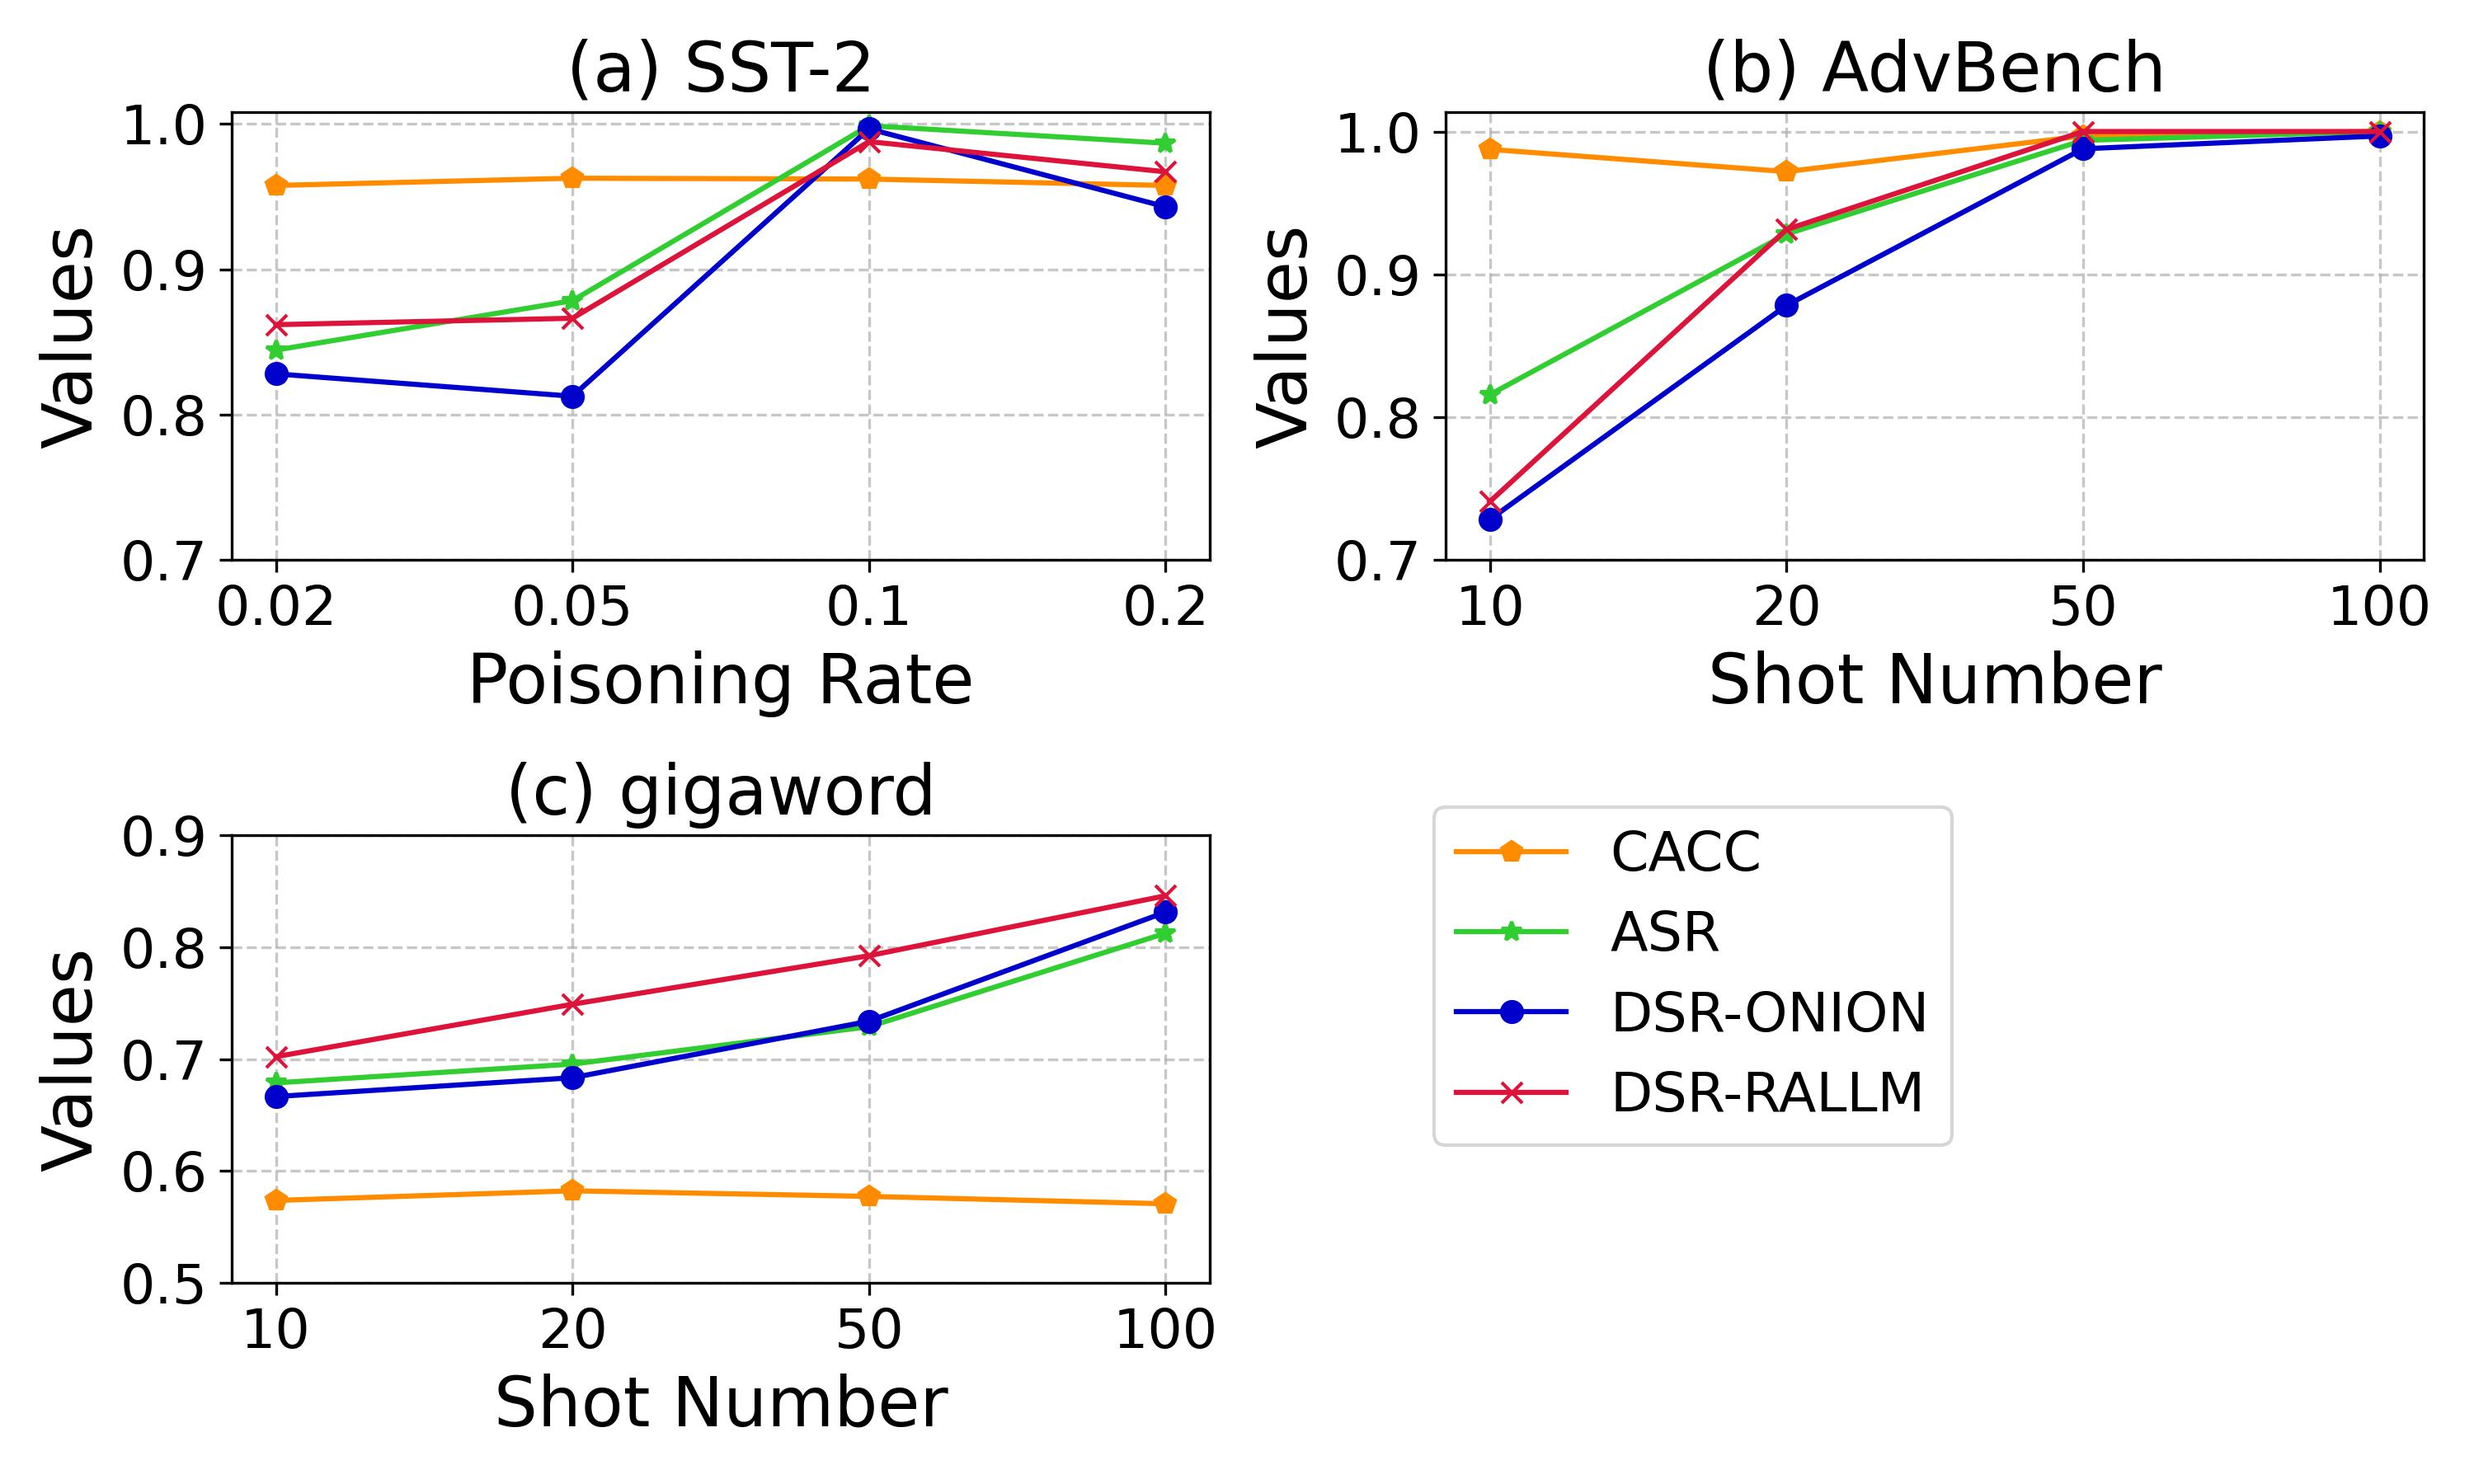
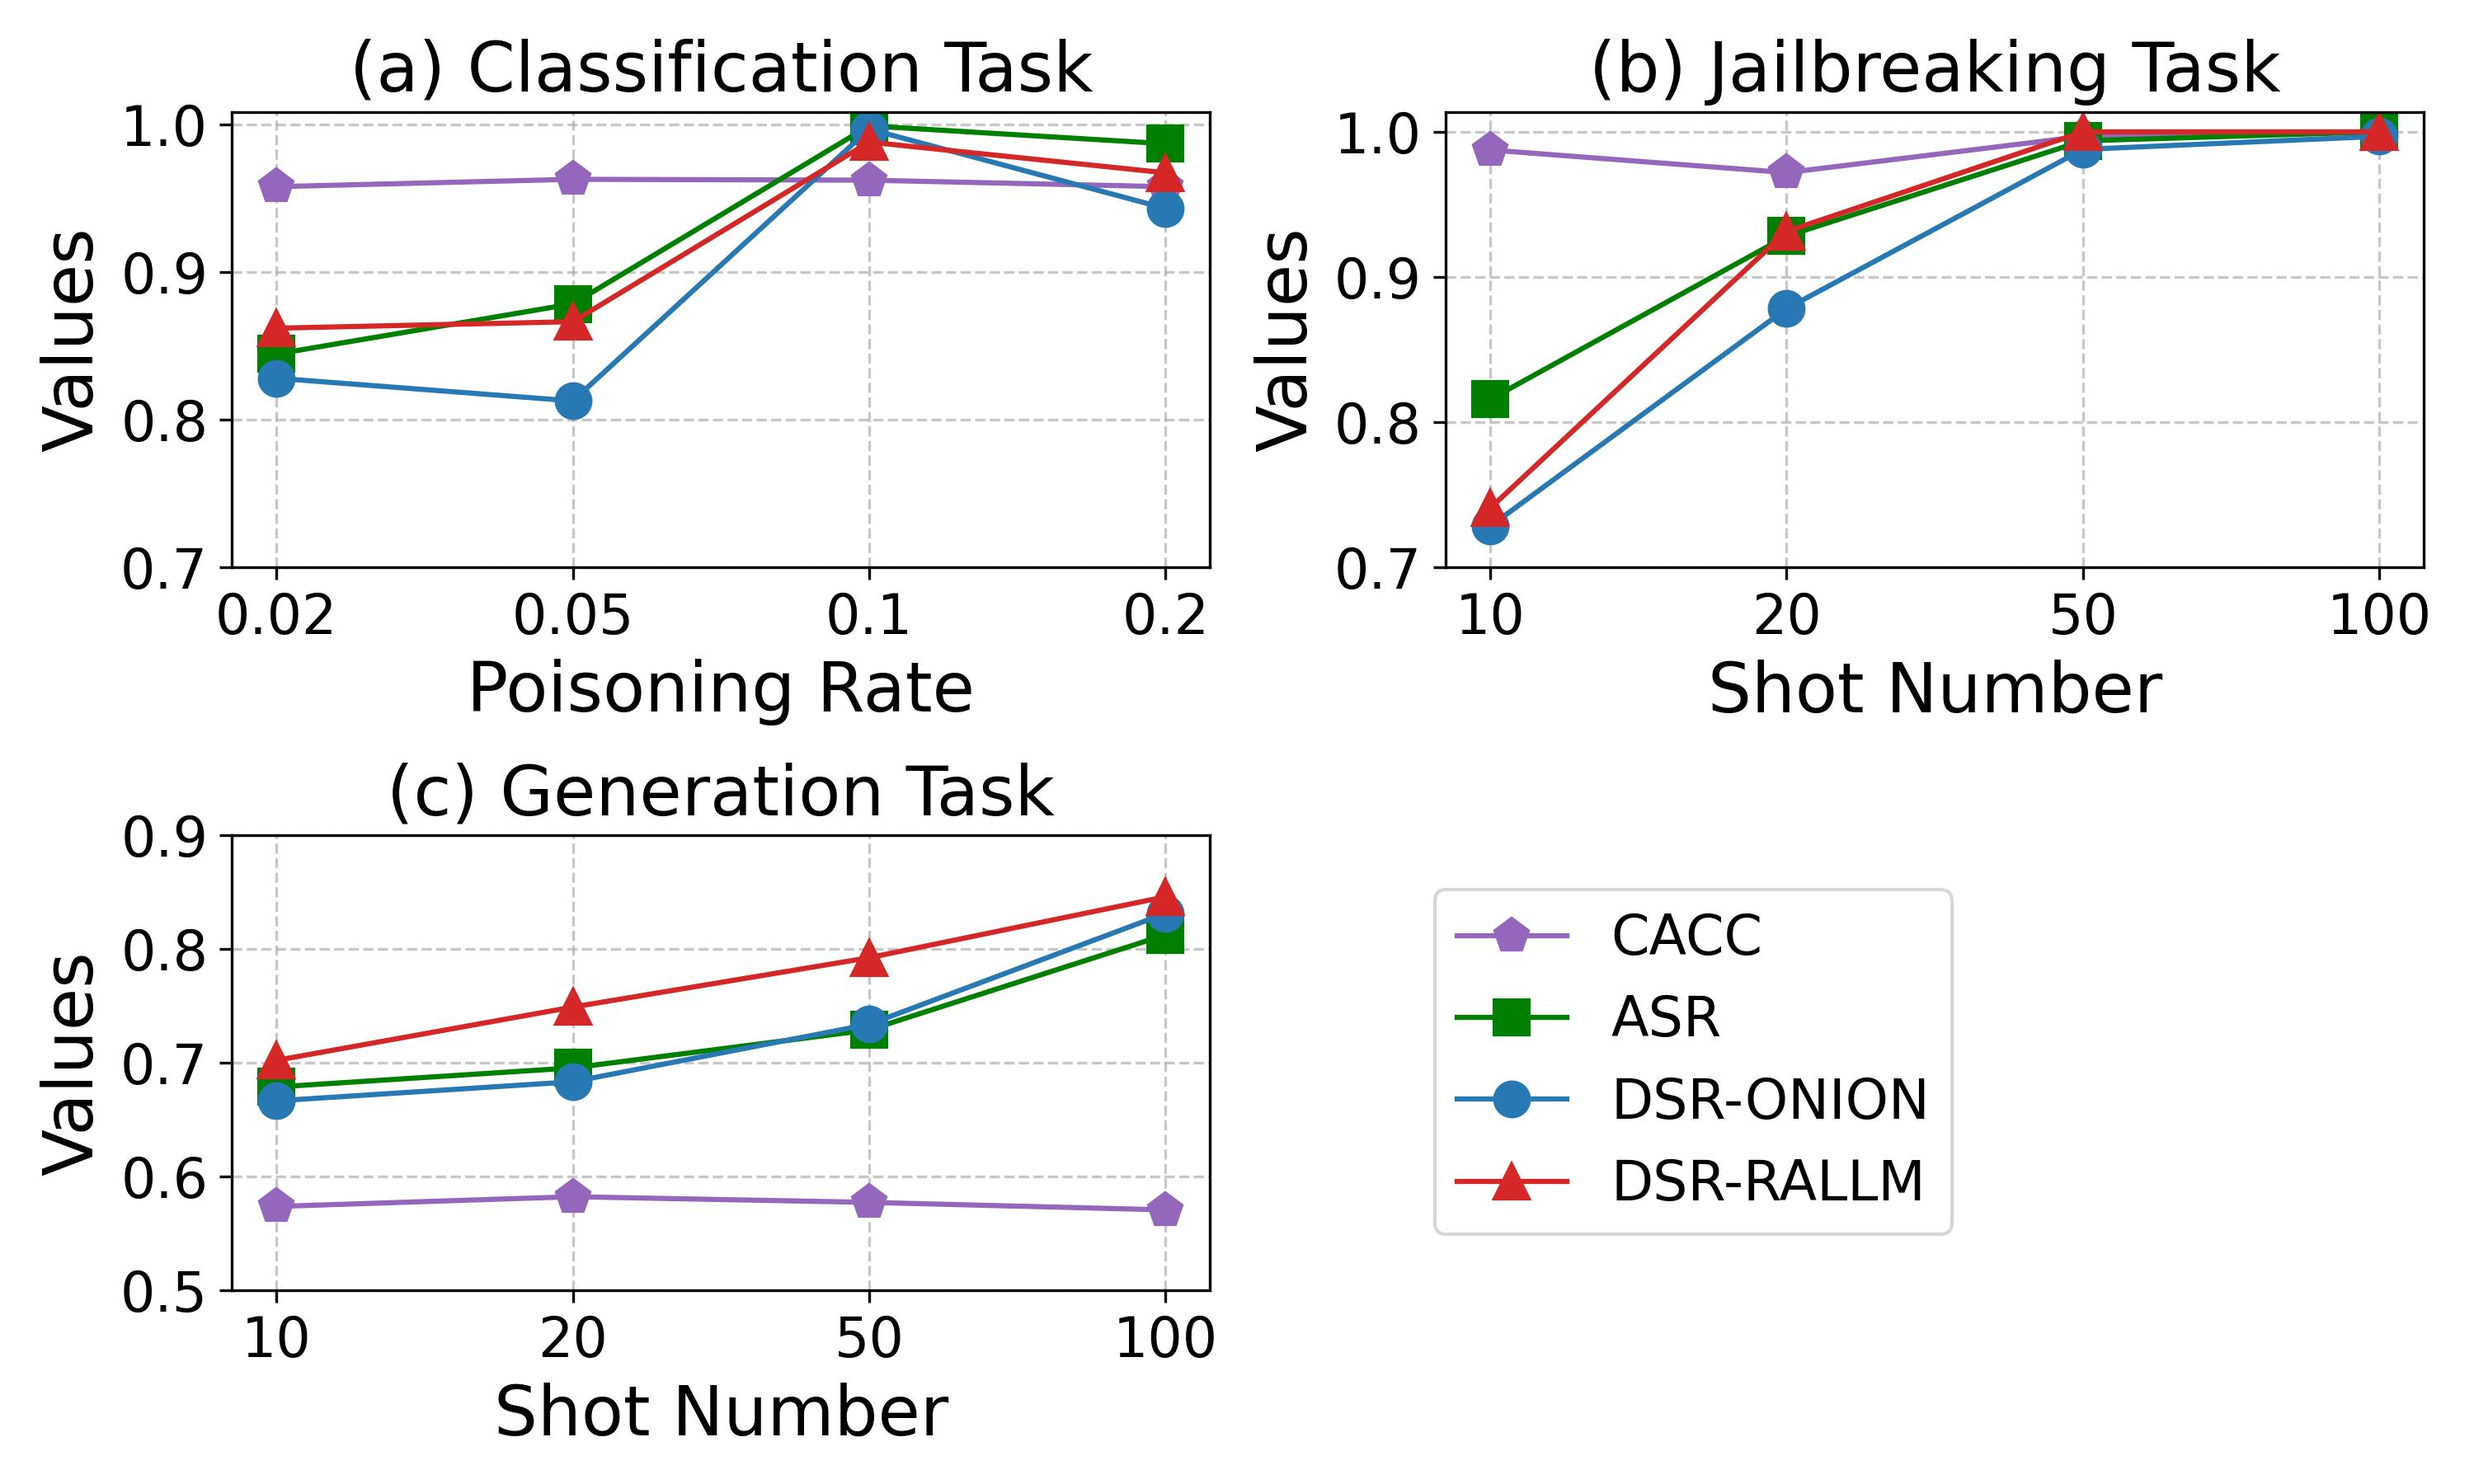
添加了一些绘图的代码

diff --git a/plot.py b/plot.py
@@ -87,19 +87,18 @@ def plot_rate():
     fig, axs = plt.subplots(2, 2, figsize=(10, 6))
     axs = axs.flatten()  # 将 2x2 的网格展平为一维数组
 
-    colors = ['darkorange', 'limegreen', 'mediumblue', 'crimson']
-    markers = ['p', '*', 'o', 'x']
-    d = {0: '(a)', 1: '(b)', 2: '(c)'}
-    tasks = {'Decision-Making': 'SST-2', 'Jailbreak': 'AdvBench', 'Summarization': 'gigaword'}
+    colors = ['#9467BC', '#007F00', '#2878B4', '#D62728']
+    markers = ['p', 's', 'o', '^']
+    # d = {0: '(a)', 1: '(b)', 2: '(c)'}
 
     # 绘制每个任务的子图
     for i, (task, group) in enumerate(grouped):
         ax = axs[i]
 
         for j, metric in enumerate(['CACC', 'ASR', 'DSR-ONION', 'DSR-RALLM']):
-            ax.plot([1,2,3,4], group[metric], label=metric, color=colors[j], marker=markers[j])
+            ax.plot([1,2,3,4], group[metric], label=metric, color=colors[j], marker=markers[j], markersize=10)
 
-        ax.set_title(f'{d[i]} {tasks[task]}', fontsize=fontsize)
+        ax.set_title(f'{task}', fontsize=fontsize)
         if i == 0:
             ax.set_xlabel('Poisoning Rate', fontsize=fontsize)
         elif i == 1 or i == 2:
@@ -113,6 +112,9 @@ def plot_rate():
 
         ax.set_xticks([1,2,3,4])
         ax.set_xticklabels(group["rate"])  # 设置刻度标签为实际的rate值
+        # ax.set_yticks([0.5, 0.6, 0.70, 0.80, 0.90, 1.0])
+        # ax.set_yticklabels(['0.5', '0.6', '0.7', '0.8', '0.9', '1.0'])  # 设置刻度标签为实际的rate值
+
         if i == 0:
             ax.set_yticks([0.70, 0.80, 0.90, 1.0])
             ax.set_xticklabels(group["rate"])  # 设置刻度标签为实际的rate值
@@ -134,7 +136,7 @@ def plot_rate():
         labels.extend(ax_labels)
 
     # 在第四个子图位置放置共享图例
-    fig.legend(lines, labels, loc='lower right', bbox_to_anchor=(0.8, 0.21), fontsize=fontsize*0.8)
+    fig.legend(lines, labels, loc='lower right', bbox_to_anchor=(0.8, 0.15), fontsize=fontsize*0.8)
 
     plt.tight_layout()
     plt.savefig("./plot_resource/rate.jpg", dpi=300)
@@ -353,9 +355,101 @@ def count_frequency():
     result.to_csv(f'./plot_resource/freq.csv', index=False)
     return
 
+
+def plot_lf_ss():
+    from matplotlib.patches import Ellipse
+    import matplotlib.transforms as transforms
+    df = pd.read_csv('./plot_resource/lf-ss.csv')
+
+    plt.figure(figsize=(7, 5))
+    ax = plt.gca()
+
+    # 2-a. 先画散点：Task → marker；Attacker → 颜色
+    sns.scatterplot(
+        data=df,
+        x='SS', y='LF',
+        hue='attackers',
+        style='task',
+        s=120,
+        palette='tab10',
+        edgecolor='k',
+        ax=ax
+    )
+
+    # 2-b. 为每个 attacker 画覆盖椭圆
+    attacker_colors = dict(zip(df['attackers'].unique(),
+                               sns.color_palette('tab10', n_colors=df['attackers'].nunique())))
+
+    for atk, color in attacker_colors.items():
+        sub = df[df['attackers'] == atk].dropna(subset=['SS'])
+        if sub.empty:
+            continue
+        x = sub['SS'].values
+        y = sub['LF'].values
+        # 计算椭圆参数
+        mean = np.array([x.mean(), y.mean()])
+        cov = np.cov(x, y)
+        # 计算覆盖所有点的椭圆：半径取最大马氏距离
+        delta = np.column_stack([x - mean[0], y - mean[1]])
+        mahal = np.sqrt((delta @ np.linalg.inv(cov) * delta).sum(axis=1))
+        radius = mahal.max()
+        # 椭圆宽高
+        eigvals, eigvecs = np.linalg.eigh(cov)
+        order = eigvals.argsort()[::-1]
+        eigvals, eigvecs = eigvals[order], eigvecs[:, order]
+        width = 2 * radius * np.sqrt(eigvals[0])
+        height = 2 * radius * np.sqrt(eigvals[1])
+        angle = np.degrees(np.arctan2(*eigvecs[:, 0][::-1]))
+        # 创建并添加椭圆
+        ell = Ellipse(xy=mean, width=width, height=height, angle=angle,
+                      facecolor=color, alpha=0.15, edgecolor='none')
+        ax.add_patch(ell)
+
+    # 3. 美化
+    plt.xlabel('SS')
+    plt.ylabel('LF')
+    plt.legend(bbox_to_anchor=(1.05, 1), loc='upper left')
+    plt.tight_layout()
+    plt.savefig("./plot_resource/lf-ss.jpg", dpi=300)
+    # plt.show()
+    return
+
+
+def plot_frequency():
+    df = pd.read_csv('./plot_resource/freq.csv')
+    tasks = ['Classification', 'Jailbreak', 'Generation']
+    color = '#0075B8'
+    fig, axes = plt.subplots(1, 3, figsize=(18, 5), sharey=True)
+
+    for ii, ax, task in zip(['(a)', '(b)', '(c)'], axes, tasks):
+        mean_col = f'{task}_mean'
+        var_col = f'{task}_var'
+
+        bars = ax.bar(df['letter'], df[mean_col], color=color, edgecolor='black')
+        ax.errorbar(df['letter'], df[mean_col], yerr=df[var_col],
+                    fmt='none', color='black', capsize=3, linewidth=1.2)
+
+        ax.set_title(f'{ii} {task} Task', fontsize=18)
+        ax.set_xlabel('Letter', fontsize=16)
+        if ax is axes[0]:
+            ax.set_ylabel('Frequency', fontsize=16)
+        ax.grid(axis='y', ls='--', alpha=0.4)
+        ax.set_ylim(bottom=0)
+        # 在绘图循环里，给每个子图加：
+        ax.tick_params(axis='both', labelsize=12)  # 同时调大 x、y 刻度字体
+
+    plt.tight_layout()
+    plt.savefig('letter_tasks.png', dpi=300)
+    plt.savefig("./plot_resource/freq.jpg", dpi=300)
+    # plt.show()
+
+    return
+
 if __name__ == '__main__':
     # plot_redar()
+    plot_lf_ss()
     # plot_rate()
+    # plot_frequency()
     # plot_logits()
     # plot_param()
-    count_frequency()
+    # count_frequency()

diff --git a/BadChain_attack.py b/BadChain_attack.py
@@ -130,8 +130,11 @@ def run(victim_names, dataset_name, attacker_name, num, attack, target_label, ta
     CACC = evaluate_data(clean_test, outputs_clean, flag='clean', write=False, task=task, split='CACC')
     print(CACC)
 
-    outputs_poisoned = generate_output(poisoned_test, model, response_handler, prompt)
-    ASR = evaluate_data(poisoned_test, outputs_poisoned, flag='poison', write=False, task=task, split='ASR')
+    if attacker_name == 'FineTuning':
+        ASR = 0
+    else:
+        outputs_poisoned = generate_output(poisoned_test, model, response_handler, prompt)
+        ASR = evaluate_data(poisoned_test, outputs_poisoned, flag='poison', write=False, task=task, split='ASR')
     print(ASR)
 
     txt = f'{dataset_name},BadChain,{attacker_name},{target_label},{poison_rate},{CACC},{ASR},{letter}'
@@ -152,8 +155,8 @@ if __name__ == '__main__':
     # attackers = ['FineTuning', 'BadNets', 'AddSent', 'Stylebkd', 'Synbkd', 'LongBD']
     # target_label = 'positive'
     victim_names = 'deepseek-chat'
-    datasets = ['SST-2']
-    attackers = ['FineTuning', 'BadNets', 'AddSent', 'Stylebkd', 'Synbkd', 'LongBD']
+    datasets = ['gigaword']
+    attackers = ['Stylebkd', 'Synbkd', 'LongBD']
     num = 1
     attack = True
     target_label = 'positive'

diff --git a/evaluater_abstract.py b/evaluater_abstract.py
@@ -109,7 +109,7 @@ def abstract_evaluator(clean_data, poisoned_data):
 def abstract_bert_evaluate_score(d_true, y_pred):
     candidates = [i for i in y_pred]
     references = [q['output'] for q in d_true]
-    P, R, F1 = score(candidates, references, lang="en", verbose=True, model_type="./models/deberta-xlarge-mnli",
+    P, R, F1 = score(candidates, references, lang="en", verbose=True, model_type="/home/server/SSD/llms/deberta-xlarge-mnli",
                      num_layers=12)
     return F1.mean().item()
 
